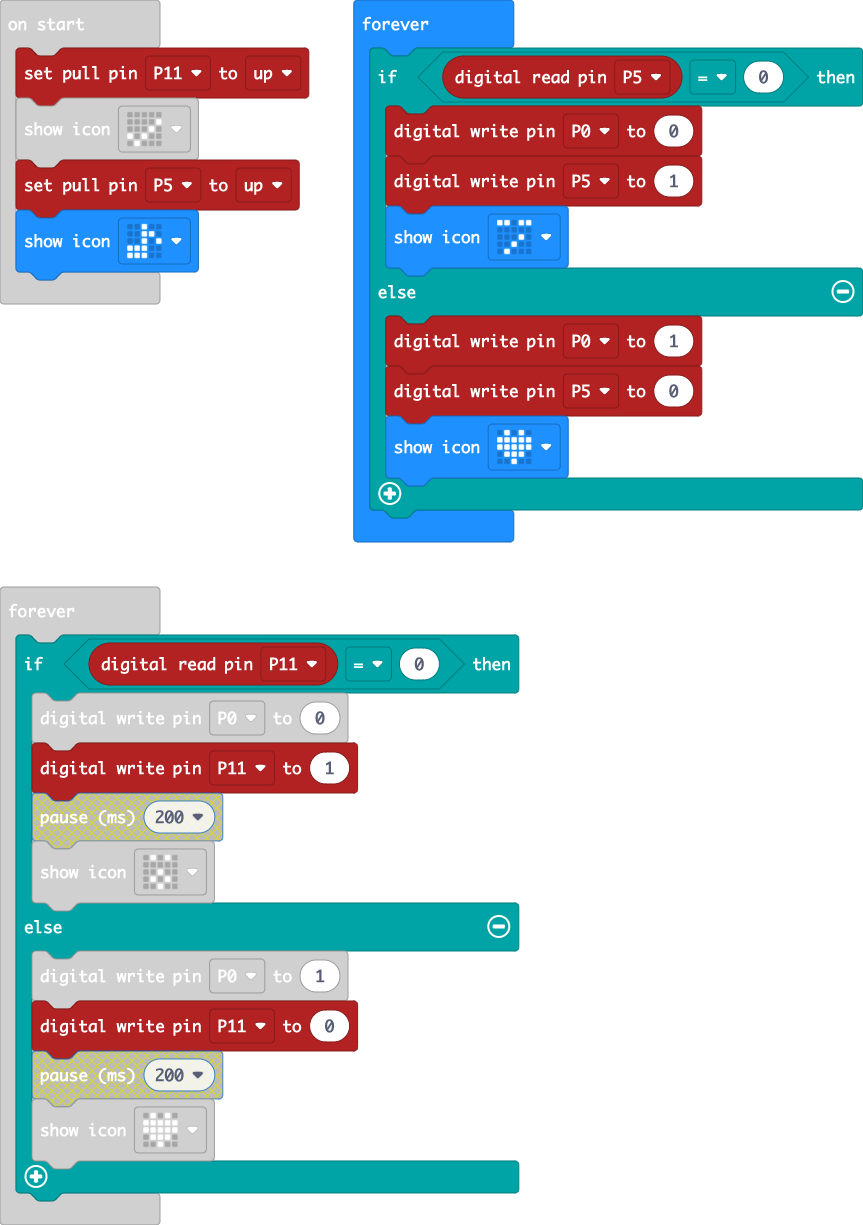
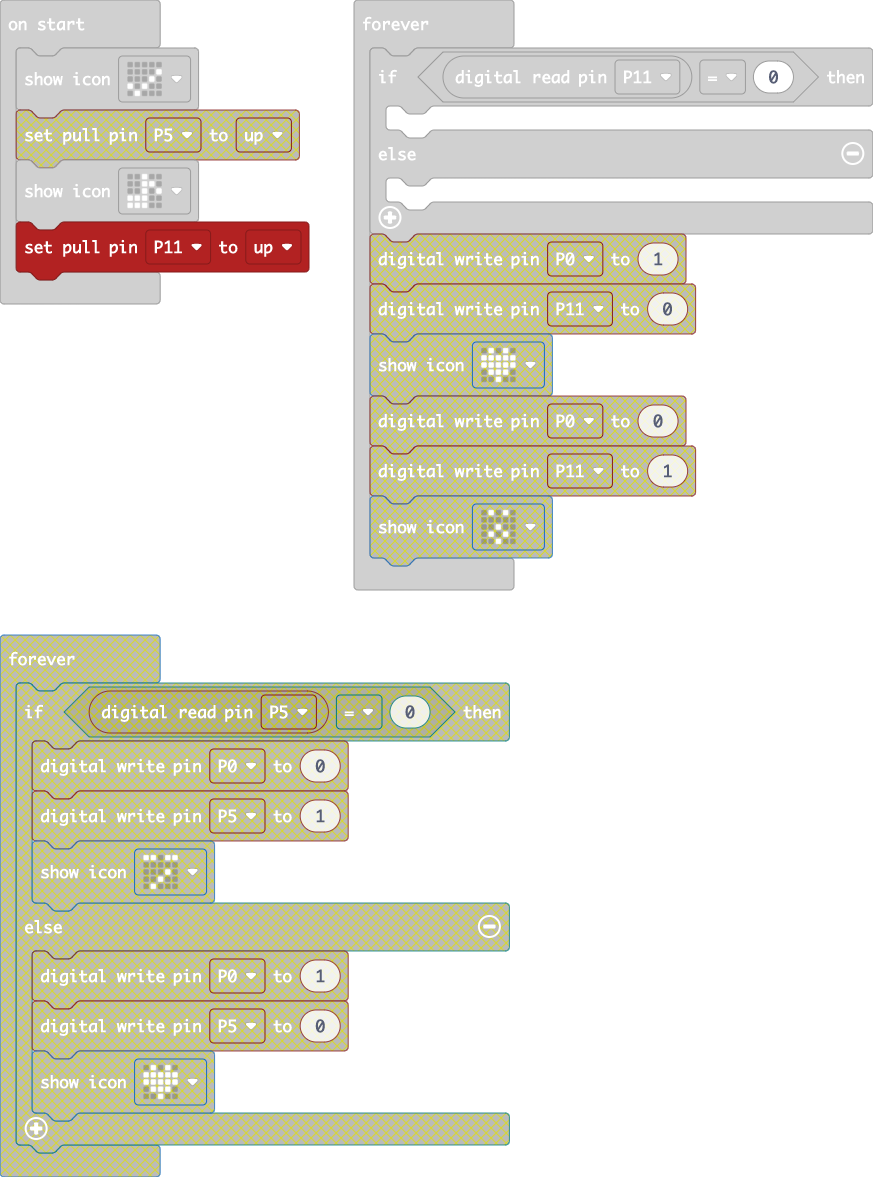
Update pxt.json, main.blocks, main.ts

diff --git a/main.ts b/main.ts
@@ -1,26 +1,10 @@
-pins.setPull(DigitalPin.P11, PinPullMode.PullUp)
 basic.showIcon(IconNames.Yes)
-pins.setPull(DigitalPin.P5, PinPullMode.PullUp)
+pins.setPull(DigitalPin.P11, PinPullMode.PullUp)
 basic.showIcon(IconNames.EigthNote)
 basic.forever(function () {
-    if (pins.digitalReadPin(DigitalPin.P5) == 0) {
-        pins.digitalWritePin(DigitalPin.P0, 0)
-        pins.digitalWritePin(DigitalPin.P5, 1)
-        basic.showIcon(IconNames.Meh)
-    } else {
-        pins.digitalWritePin(DigitalPin.P0, 1)
-        pins.digitalWritePin(DigitalPin.P5, 0)
-        basic.showIcon(IconNames.Heart)
-    }
-})
-basic.forever(function () {
     if (pins.digitalReadPin(DigitalPin.P11) == 0) {
-        pins.digitalWritePin(DigitalPin.P0, 0)
-        pins.digitalWritePin(DigitalPin.P11, 1)
-        basic.showIcon(IconNames.Surprised)
+    	
     } else {
-        pins.digitalWritePin(DigitalPin.P0, 1)
-        pins.digitalWritePin(DigitalPin.P11, 0)
-        basic.showIcon(IconNames.Heart)
+    	
     }
 })
